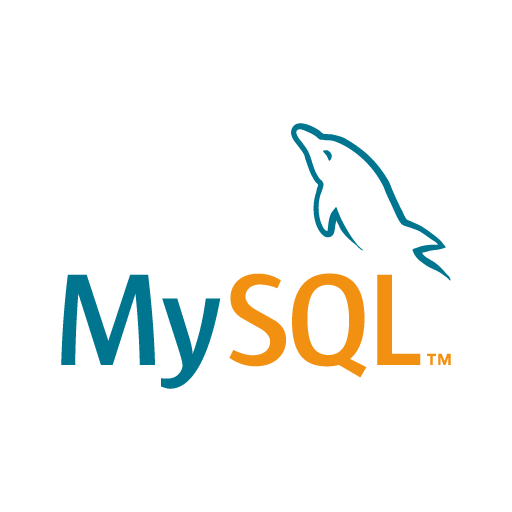
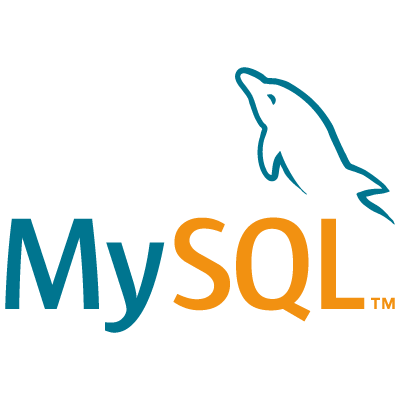
Restyle technologies and tools sections

Changed region(s): [[0.0, 0.15, 0.99, 0.84]]

diff --git a/index.html b/index.html
@@ -58,25 +58,58 @@
        My technology stack is based on Java language including it's major frameworks and libraries like Spring or JUnit. To deal with databases I use MySQL and Hibernate if needed. Regarding my skills in website development I am able to create simple, properly made and standards complying frontend for applications. For that purpose I use HTML5, CSS3 with Bootstrap and some JS scripts.
 		</p>
 		<ul class="row justify-content-center align-items-center text-center">
-			<li class="col-sm-4">
+			<li class="col-auto">
 				<a href="https://www.java.com/" target="_blank">
 					<img src="images/java-vertical-alt.png" title="java-logo" alt="java-logo" class="img-fluid" />
 				</a>
 				<h4>Java</h4>
 			</li>
-			<li class="col-sm-4">
-				<a href="https://www.w3schools.com/tags/default.asp" target="_blank">
+			<li class="col-auto">
+				<a href="https://spring.io/projects/" target="_blank">
+					<img src="images/spring-alt.png" title="spring-logo" alt="spring-logo" class="img-fluid" />
+				</a>
+				<h4>Spring</h4>
+			</li>
+			<li class="col-auto">
+				<a href="https://junit.org/junit5/" target="_blank">
+					<img src="images/junit5-alt.png" title="junit5-logo" alt="junit5-logo" class="img-fluid" />
+				</a>
+				<h4>JUnit 5</h4>
+      </li>
+      
+      <li class="col-auto">
+				<a href="https://www.mysql.com/" target="_blank">
+          <img src="images/mysql.png" title="mysql-logo" alt="mysql-logo" class="img-fluid" />
+				</a>
+				<h4>MySQL</h4>
+      </li>
+      <li class="col-auto">
+				<a href="https://hibernate.org/orm/" target="_blank">
+					<img src="images/hibernate-color.png" title="hibernate-logo" alt="hibernate-logo" class="img-fluid" />
+				</a>
+				<h4>Hibernate</h4>
+      </li>
+    </ul>
+    <ul class="row justify-content-center align-items-center text-center">
+      <li class="col-auto">
+				<a href="https://www.w3schools.com/tags/default.asp/" target="_blank">
 					<img src="images/html5-alt4.png" title="html5-logo" alt="html5-logo" class="img-fluid" />
 				</a>
 				<h4>HTML5</h4>
-			</li>
-			<li class="col-sm-4">
-				<a href="https://www.w3schools.com/cssref/default.asp" target="_blank">
+      </li>
+      <li class="col-auto">
+				<a href="https://www.w3schools.com/cssref/default.asp/" target="_blank">
 					<img src="images/css3-alt01.png" title="css3-logo" alt="css3-logo" class="img-fluid" />
 				</a>
 				<h4>CSS3</h4>
+      </li>
+      <li class="col-auto">
+				<a href="https://en.wikipedia.org/wiki/JavaScript/" target="_blank">
+					<img src="images/javascript.png" title="javascript-logo" alt="javascript-logo" class="img-fluid" />
+				</a>
+				<h4>JavaScript</h4>
 			</li>
-		</ul>
+    </ul>
   </section>
   
 	<section id="tools" class="container-fluid">
@@ -85,28 +118,40 @@
       I'm familiar with highly rated and well known tools used in proffesional software development. With some of them, like Git, I&nbsp;deal on daily basis. It is essential in every project I create. Use of other tools, like IDE's, depend on what I am currently working on. If there is Java involved - there can be only one right choice - JetBrains InteliJ IDEA. If it's just simple website development - I&nbsp;prefer more lightweight options like Visual Studio Code. Issue trackers like JIRA also are not a mystery for me, but honestly - is there anyone that uses it for self-managed, independent, non-commercial projects? I'm not so sure about that :) Oh! And there's the Stack Overflow - it's like a developer's multitool, isn't it?
 		</p>
 		<ul class="row justify-content-center align-items-center text-center">
-			<li class="col-sm-4">
+			<li class="col-auto">
 				<a href="https://www.jetbrains.com/idea/" target="_blank">
 					<img src="images/intelij-color.png" title="intelij-logo" alt="intelij-logo" class="img-fluid" />
 				</a>
         <h4>InteliJ IDEA</h4>
 			</li>
-			<li class="col-sm-4">
-				<a href="https://git-scm.com" target="_blank">
-					<img src="images/git-color-alt01.png" title="git-logo" alt="git-logo" class="img-fluid" />
+			<li class="col-auto">
+				<a href="https://code.visualstudio.com/" target="_blank">
+					<img src="images/vs-code.png" title="vs-code-logo" alt="vs-code-logo" class="img-fluid" />
+				</a>
+				<h4>VS Code</h4>
+			</li>
+			<li class="col-auto">
+				<a href="https://git-scm.com/" target="_blank">
+					<img src="images/git-color.png" title="git-logo" alt="git-logo" class="img-fluid" />
 				</a>
 				<h4>Git</h4>
-			</li>
-			<li class="col-sm-4">
-				<a href="https://www.atlassian.com/software/jira" target="_blank">
-					<img src="images/jira-color-alt02.png" title="jira-logo" alt="jira-logo" class="img-fluid" />
+      </li>
+      <li class="col-auto">
+				<a href="https://www.atlassian.com/software/jira/" target="_blank">
+					<img src="images/jira-color-alt03.png" title="jira-logo" alt="jira-logo" class="img-fluid" />
 				</a>
 				<h4>Jira</h4>
+      </li>
+      <li class="col-auto">
+				<a href="https://stackoverflow.com/questions/" target="_blank">
+					<img src="images/stack.png" title="stack-logo" alt="stack-logo" class="img-fluid" />
+				</a>
+				<h4>Stack Overflow</h4>
 			</li>
 		</ul>
   </section>
   
-	<section id="projects" class="container-fluid">
+  <section id="projects" class="container-fluid">
 		<h2>Projects</h2>
 		<p>
       All my projects are available on my <a href="https://github.com/WojciechChrzastek/" target="_blank">GitHub account</a>. Feel free to check out the sourcecode and clone or download it. Below you will find links to the code I managed to produce lately.

diff --git a/styles.css b/styles.css
@@ -23,6 +23,11 @@ h2 {
   text-align: center;
 }
 
+h4 {
+  text-align: center;
+  font-size: larger;
+}
+
 p {
   text-align: justify;
   max-width: 850px;
@@ -125,6 +130,21 @@ li.col-sm-4 {
   border: 0.2em solid #fff;
   border-radius: 2em;
   opacity: 0.5;
+}
+
+/*-----TECHNOLOGIES-& TOOLS----*/
+
+#technologies li,
+#tools li {
+  padding: 30px 20px;
+  position: relative;
+}
+
+#technologies .img-fluid,
+#tools .img-fluid {
+  height: auto;
+  max-width: 120px;
+  padding-bottom: 10px;
 }
 
 /*-----PROJECTS-----*/
